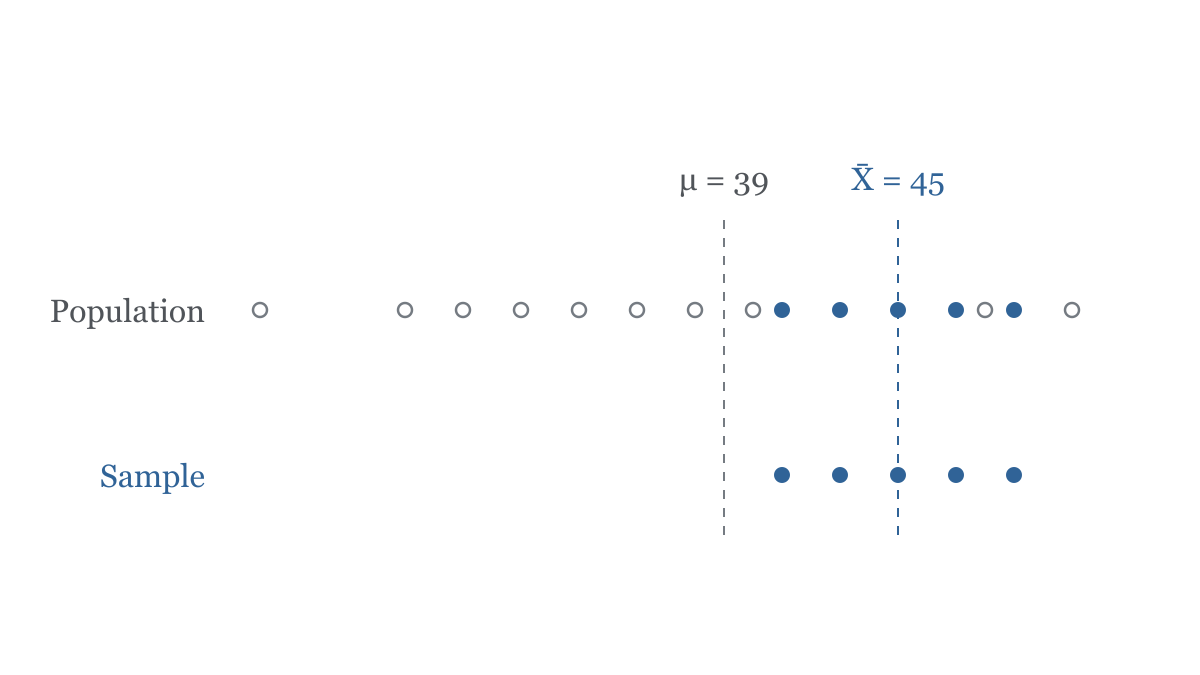
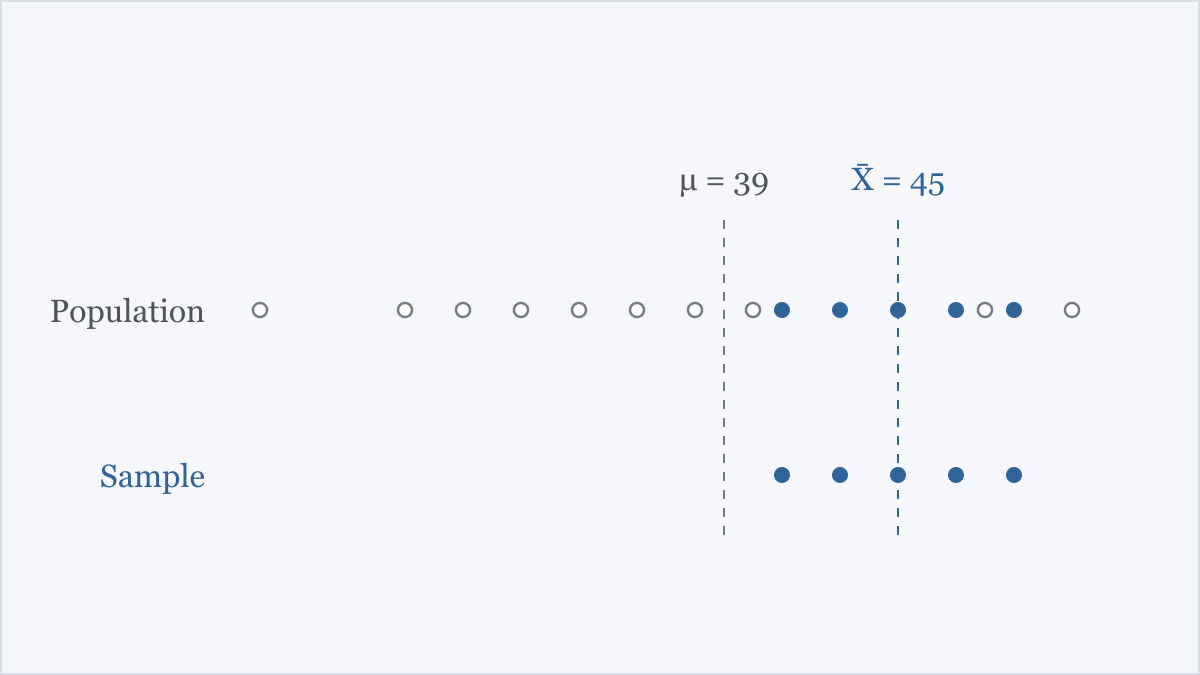
Refine sample variance cover and add course tag

Changed region(s): [[0.0, 0.0, 1.0, 1.0], [0.0, 0.0, 0.0308, 0.0311]]

diff --git a/content/teaching/why-n-minus-one/index.md b/content/teaching/why-n-minus-one/index.md
@@ -10,6 +10,7 @@ image:
   caption: "The sample clusters around its own mean"
 tags:
   - Statistics
+  - ST2132
 ---
 
 Suppose our population consists of one million people who voted for Trump in the 2024 election. We want to know: roughly how old are they on average? And is their age distribution fairly concentrated, or is there a wide mix of younger and older voters?
